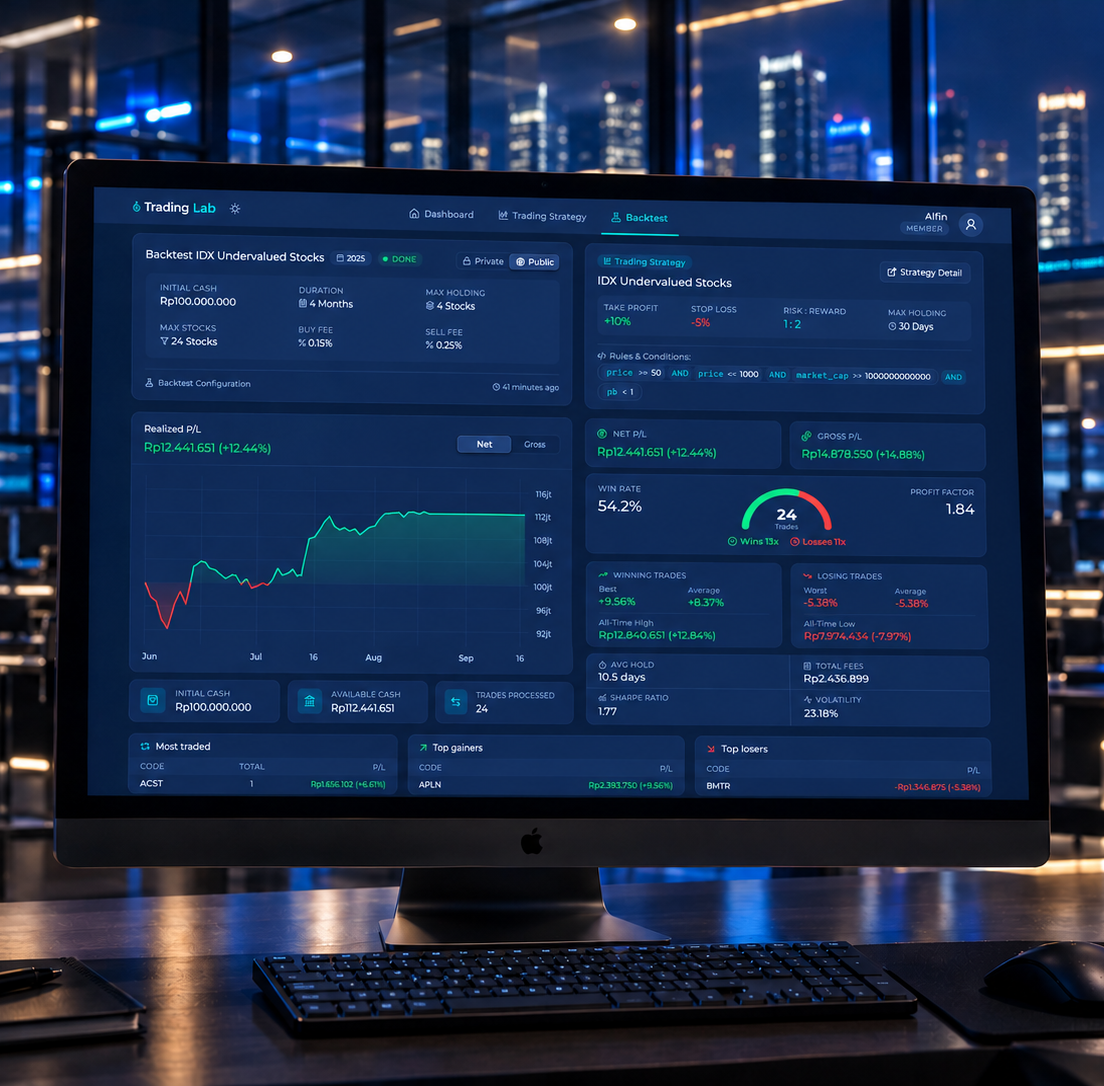
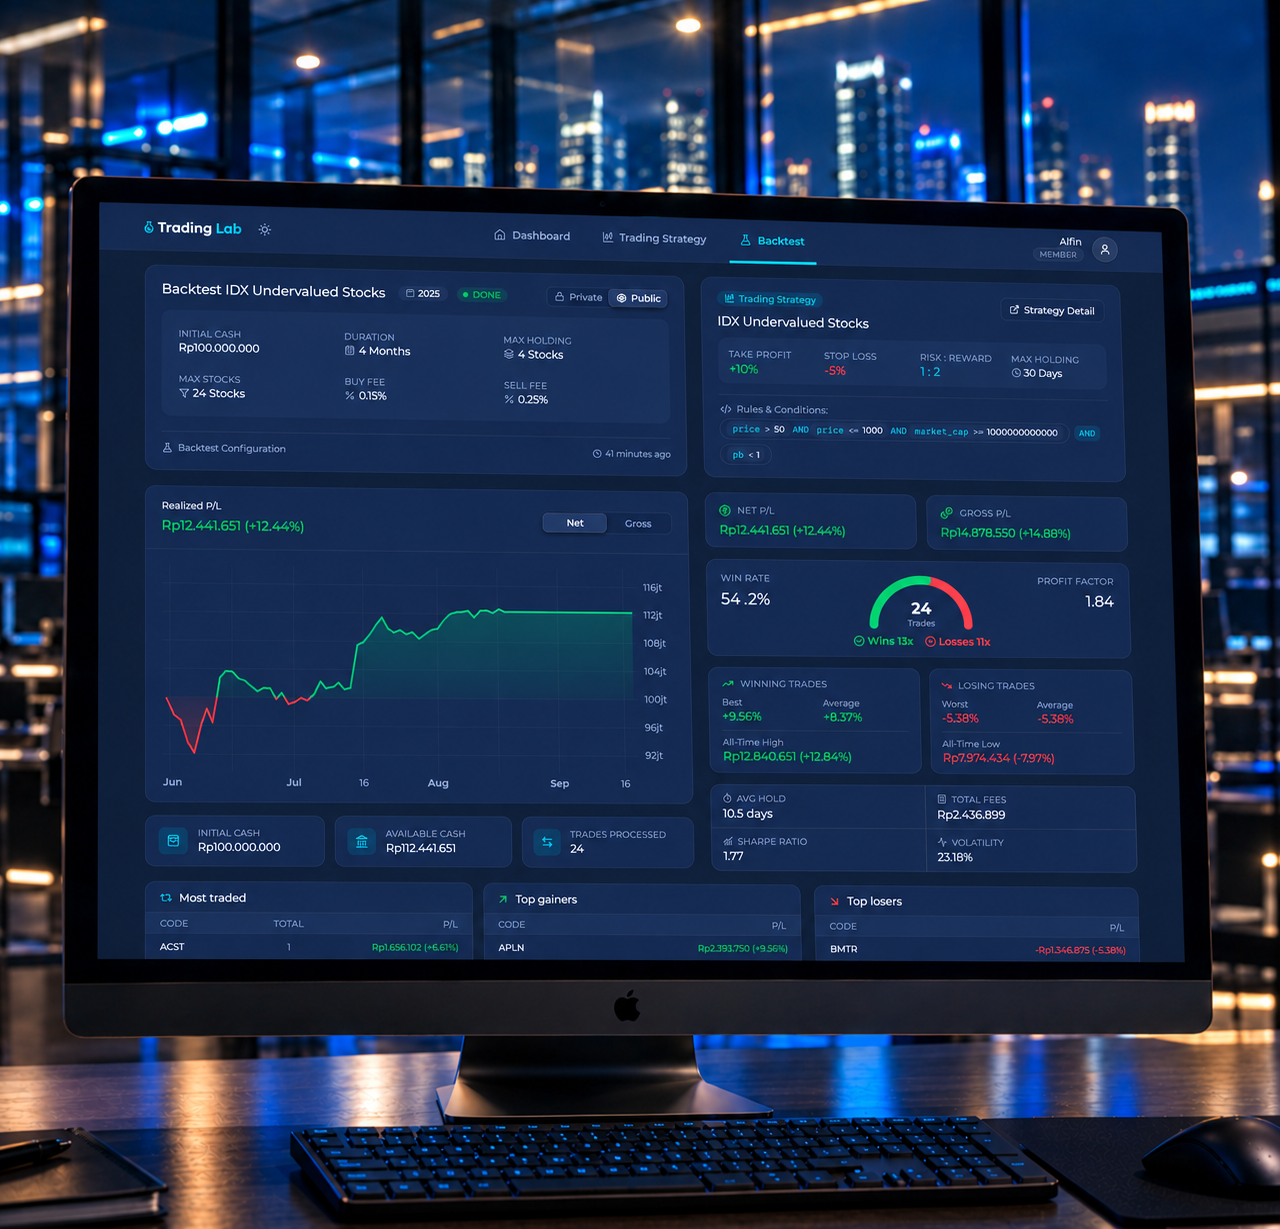
Update README.md

diff --git a/README.md b/README.md
@@ -1,6 +1,6 @@
 # Trading Lab
 
-> Preview: [https://trading-lab-alphabyte.vercel.app](https://trading-lab-alphabyte.vercel.app)
+> Preview: [https://trading-lab.xyz](https://trading-lab.xyz)
 
 ### Video Links
 - 1-min Teaser: [https://youtu.be/p1dY_RPsLf4](https://youtu.be/p1dY_RPsLf4)
@@ -16,21 +16,17 @@ Trading Lab is a backtesting platform built for the Indonesia Stock Exchange (ID
 - **Visual Condition Builder**: Construct dynamic, multi-group screening rules with customizable intra-group and inter-group logical connectors (`AND` / `OR`).
 - **Comprehensive IDX Metrics**: Screen stocks across categorized financial metrics, including Valuation (P/E, P/B), Profitability (ROE, ROA, Net Margin), Solvency (DER, Current Ratio), Dividend Yield, and Technical Price/Volume indicators.
 - **Dynamic Comparisons**: Compare variables against fixed numeric thresholds, percentage changes, or cross-metric conditions.
-- **One-Click Strategy Duplication**: Easily duplicate existing strategies with automated unique naming (`{Name} (Copy)`) to rapidly iterate on rule variations.
 
 ### ⚡ Reliable Backtest Engine
 - **Asynchronous Simulation**: High-performance historical simulation engine running in non-blocking Tokio background tasks.
 - **Real Market Data Integration**: Powered by Sectors.app IDX market data with permanent Redis caching, cache-miss telemetry, and 429 rate-limit backoff retries.
 - **Customizable Simulation Parameters**: Configure starting capital, maximum simultaneous portfolio holdings, broker commission fees (buy/sell), and historical durations (1, 3, 6, 12 months).
 
-### 🤖 AI-Powered
-- **AI Strategy Refinement**: Intercepts strategy creation and modification to analyze Take-Profit, Stop-Loss, holding duration, and conditional screening rules against IDX market dynamics, offering one-click "Accept" or "Ignore" suggestions to optimize risk-reward parameters and rule conditions (adding variables, modifying thresholds).
+### ✨ AI-Powered
+- **AI Suggestions**: Offering one-click "Accept" or "Ignore" trading strategy suggestions to optimize risk-reward parameters, holding days, and rule conditions.
 - **AI Insights**: Generates a actionable qualitative breakdown on completed backtests.
-- **Persistent AI Caching**: AI insights are cached directly in PostgreSQL and Redis for zero-latency retrieval without redundant LLM calls.
-- **Platform-Wide Master Toggle**: Administrators can dynamically enable or disable AI capabilities across the entire platform via app settings.
 
 ### 📊 Deep Analytics & Interactive Visualizations
-- **Interactive Equity Curve**: High-performance interactive baseline equity chart powered by **TradingView Lightweight Charts** with Jakarta timezone rendering and Net vs Gross equity toggling.
 - **Key Performance Metrics**: Instant calculation of Total Return %, Win Rate %, Profit Factor, Sharpe Ratio (2% risk-free rate), Portfolio Volatility, and Average Holding Time.
 - **Win/Loss Doughnut & Sparklines**: Semicircular SVG win vs loss distribution chart and mini sparkline equity previews on list cards.
 - **Detailed Trade Telemetry**: In-depth breakdown of Top Gainers, Top Losers, Most Traded Tickers, and a complete trade execution history log with exit reasons (Take-Profit, Stop-Loss, Max Holding Days, or Period End).
@@ -42,7 +38,6 @@ Trading Lab is a backtesting platform built for the Indonesia Stock Exchange (ID
 
 ### 🔒 Enterprise Security & Administration
 - **Stateful JWT Session Management**: JWT access and refresh token pair rotation backed by Redis session tracking with instantaneous revocation on logout or password change.
-- **Role-Based Access Control (RBAC)**: Distinct permissions for `ADMIN` and `MEMBER` roles with route extractors and client-side guards.
 - **Admin Management Console**: Dedicated admin panel for managing registered users, creating accounts with explicit roles, resetting credentials, and moderating content.
 - **Profile & Credential Management**: User self-service modal dialogs for updating profile details and securely changing passwords with Argon2id hashing.
 
